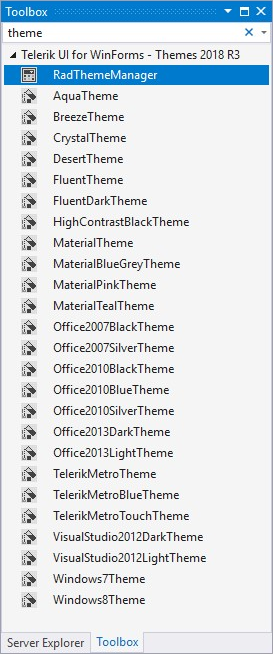
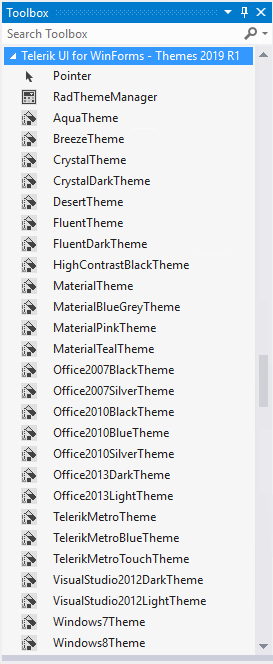
Mention CrystalDark theme where it is necessary

Changed region(s): [[0.0, 0.0, 1.0, 1.0]]

diff --git a/deployment-and-distribution/application-deployment.md b/deployment-and-distribution/application-deployment.md
@@ -287,6 +287,10 @@ Telerik.WinControls.Themes.FluentDark.dll</td></tr><tr><td>
 
 Telerik.WinControls.Themes.Crystal.dll</td></tr><tr><td>
 
+<b>CrystalDarkTheme</b></td><td>
+
+Telerik.WinControls.Themes.CrystalDark.dll</td></tr><tr><td>
+
 <b>DesertTheme</b></td><td>
 
 Telerik.WinControls.Themes.Desert.dll</td></tr><tr><td>

diff --git a/deployment-and-distribution/redistributing-telerik-ui-for-winforms.md b/deployment-and-distribution/redistributing-telerik-ui-for-winforms.md
@@ -552,6 +552,10 @@ Telerik.WinControls.Themes.FluentDark.dll</td></tr><tr><td>
 
 Telerik.WinControls.Themes.Crystal.dll</td></tr><tr><td>
 
+<b>CrystalDarkTheme</b></td><td>
+
+Telerik.WinControls.Themes.CrystalDark.dll</td></tr><tr><td>
+
 <b>DesertTheme</b></td><td>
 
 Telerik.WinControls.Themes.Desert.dll</td></tr><tr><td>

diff --git a/visual-studio-integration/adding-radcontrols-to-visual-studio-toolbox.md b/visual-studio-integration/adding-radcontrols-to-visual-studio-toolbox.md
@@ -119,6 +119,8 @@ Telerik UI for for WinForms are automatically added to Visual Studio 2005/2008/2
  
  * Telerik.WinControls.Themes.Crystal.dll
 
+ * Telerik.WinControls.Themes.CrystalDark.dll
+
  * Telerik.WinControls.PdfViewer.dll
 
  * Telerik.WinControls.PivotGrid.dll

diff --git a/introduction.md b/introduction.md
@@ -30,6 +30,8 @@ Telerik UI for for WinForms includes over 120 UI controls that you can use to ea
 	* BreezeTheme
 
 	* CrystalTheme
+	
+	* CrystalDarkTheme
     
 	* DesertTheme
 	
